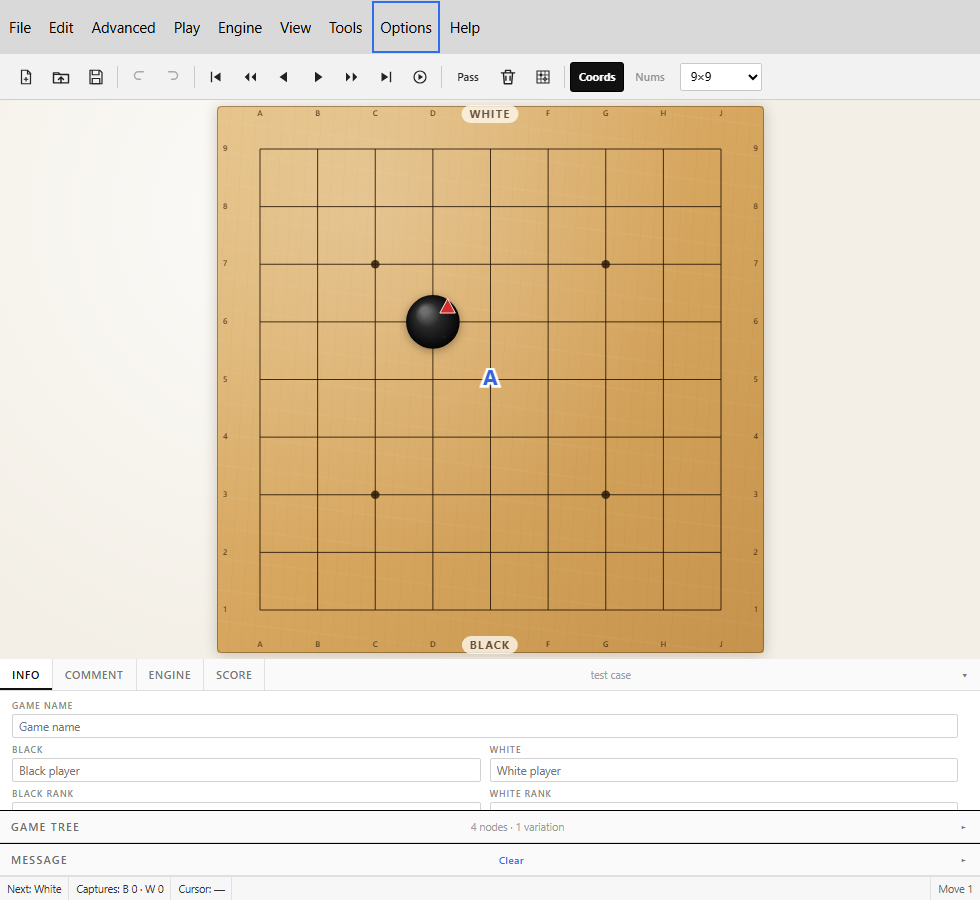
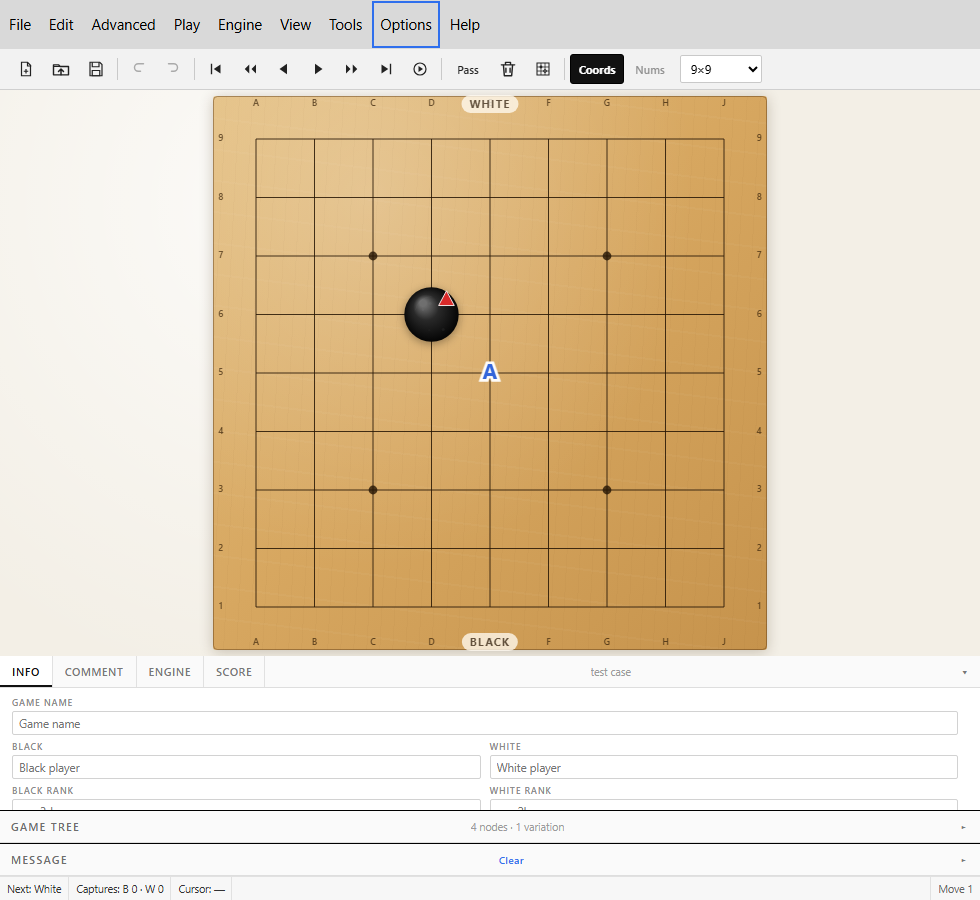
Wrap toolbar rows and shorten menu chrome

diff --git a/src/styles.css b/src/styles.css
@@ -12,8 +12,8 @@
   --success: #1a7f37;
   --warn: #9a6700;
   --error: #cf222e;
-  --menubar-height: 54px;
-  --toolbar-height: 46px;
+  --menubar-height: 49px;
+  --toolbar-height: 41px;
   --statusbar-height: 24px;
   --default-left: 72.5694%;
   --default-top: 36%;
@@ -303,19 +303,15 @@ button {
   position: relative;
   z-index: 30;
   display: flex;
-  flex: 0 0 var(--toolbar-height);
+  flex: 0 0 auto;
+  flex-wrap: wrap;
+  align-content: center;
   align-items: center;
   gap: 2px;
-  padding: 0 10px;
+  min-height: var(--toolbar-height);
+  padding: 3px 10px;
   border-bottom: 1px solid #cfcfcf;
   background: var(--toolbar);
-  overflow-x: auto;
-  overflow-y: hidden;
-  scrollbar-width: none;
-}
-
-.toolbar::-webkit-scrollbar {
-  display: none;
 }
 
 .tool-group {

diff --git a/README.md b/README.md
@@ -53,8 +53,11 @@ Released 2026-11-14. The Windows artifacts are `MultiGo-Neo-1.1.9-setup.exe` and
 - **Node names** — the 1.1.7 editable `N` labels remain available from the tree.
 - **Resizable window** — the Electron minimum is now **360×480**, so the OS window can reach the
   phone layout instead of stopping at 960×640.
-- **Wrapping menu bar** — when the top menu labels no longer fit on one line, they wrap onto a
-  second row (for example Options and Help at 390 px) instead of running off the window.
+- **Wrapping menu and tool bars** — when the top menu labels no longer fit on one line, they wrap
+  onto a second row (for example Options and Help at 390 px) instead of running off the window.
+  The toolbar wraps the same way into additional rows at narrow widths.
+- **Slightly shorter chrome** — the menu row is **49 px** (was 54) and the toolbar row is
+  **41 px** (was 46), about a 10% reduction, leaving more height for the board.
 
 ### Version 1.1.8
 
@@ -765,7 +768,8 @@ remaining height. Go bowls are hidden in portrait; the layout returns to the rem
 landscape proportions, with bowls, when the window grows again. The desktop window can be
 resized down to **360×480**, matching the phone layout, instead of stopping at 960×640.
 When the menu labels no longer fit, the menu bar wraps onto a second row rather than clipping;
-popup menus still open below the complete bar.
+popup menus still open below the complete bar. The toolbar also wraps into extra rows. Menu rows
+are 49 px and toolbar rows are 41 px, roughly 10% shorter than before.
 
 ![Portrait workspace at 980×900](preview/preview-portrait.png)
 
